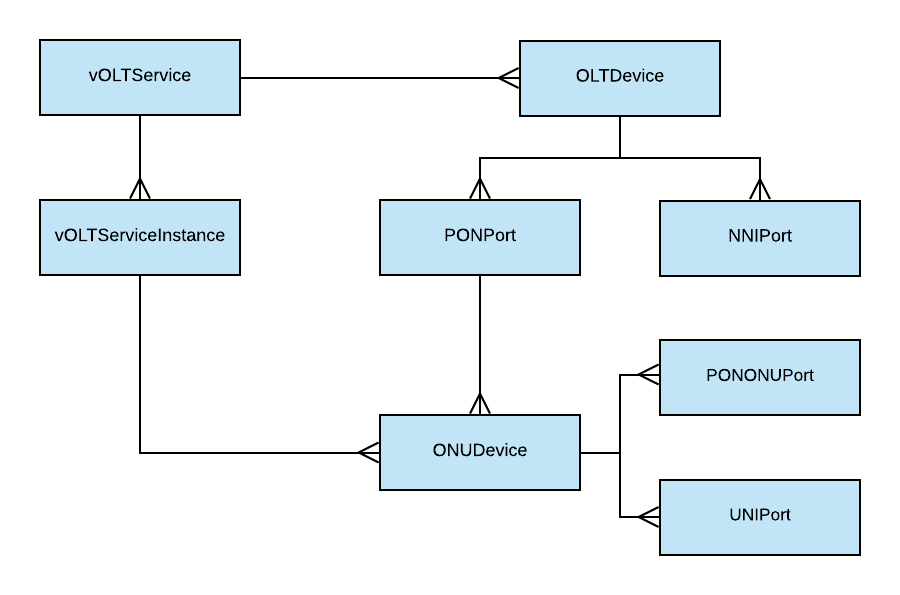
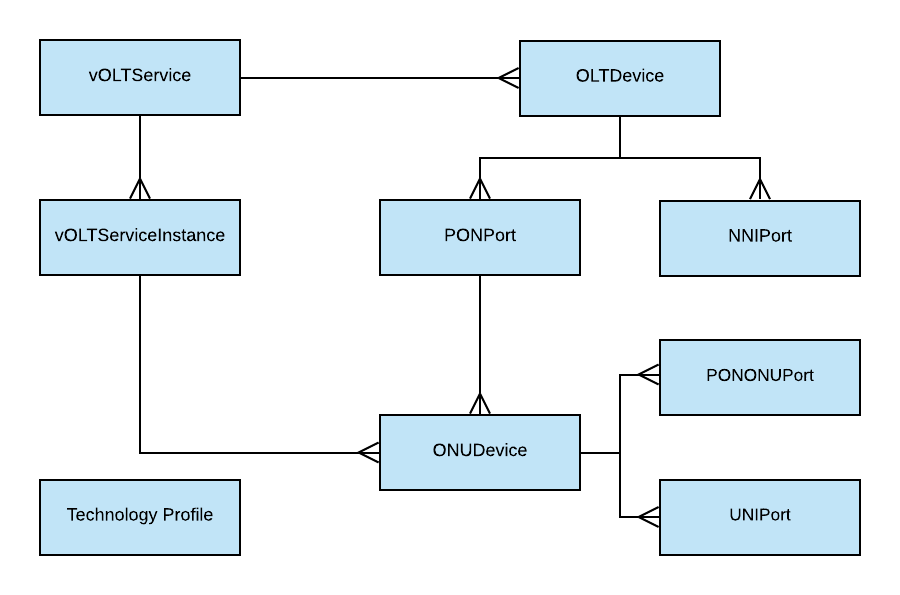
[SEBA-673] Adding documentation regarding the Technology profile

Changed region(s): [[0.0311, 0.7866, 0.28, 0.9378]]

diff --git a/docs/README.md b/docs/README.md
@@ -47,6 +47,7 @@ representation.
     - `oper_status`.
     - `connect_status`.
 - `NNIPort`, `PONPort`, `ANIPort`, `UNIPort`. These represent various ports attached to OLTs and ONUs.
+- `TechnologyProfile`. Contains PON related information, see [Technology Profile Management](https://github.com/opencord/voltha/tree/master/common/tech_profile) in the VOLTHA repo.
 
 ## Example Tosca
 
@@ -139,6 +140,167 @@ topology_template:
             relationship: tosca.relationships.BelongsToOne
 ```
 
+## Create a Technology Profile
+
+This example uses 4 Gem ports:
+
+```yaml
+tosca_definitions_version: tosca_simple_yaml_1_0
+imports:
+  - custom_types/technologyprofile.yaml
+description: Create a TechnologyProfile to configure the PON in VOLTHA
+topology_template:
+  node_templates:
+
+    technologyProfile:
+      type: tosca.nodes.TechnologyProfile
+      properties:
+        profile_id: 64
+        technology: xgspon
+        profile_value: >
+          {
+            "name": "4QueueHybridProfileMap1",
+            "profile_type": "XPON",
+            "version": 1,
+            "num_gem_ports": 4,
+            "instance_control": {
+              "onu": "multi-instance",
+              "uni": "single-instance",
+              "max_gem_payload_size": "auto"
+            },
+            "us_scheduler": {
+              "additional_bw": "auto",
+              "direction": "UPSTREAM",
+              "priority": 0,
+              "weight": 0,
+              "q_sched_policy": "hybrid"
+            },
+            "ds_scheduler": {
+              "additional_bw": "auto",
+              "direction": "DOWNSTREAM",
+              "priority": 0,
+              "weight": 0,
+              "q_sched_policy": "hybrid"
+            },
+            "upstream_gem_port_attribute_list": [
+              {
+                "pbit_map": "0b00000101",
+                "aes_encryption": "True",
+                "scheduling_policy": "WRR",
+                "priority_q": 4,
+                "weight": 25,
+                "discard_policy": "TailDrop",
+                "max_q_size": "auto",
+                "discard_config": {
+                  "max_threshold": 0,
+                  "min_threshold": 0,
+                  "max_probability": 0
+                }
+              },
+              {
+                "pbit_map": "0b00011010",
+                "aes_encryption": "True",
+                "scheduling_policy": "WRR",
+                "priority_q": 3,
+                "weight": 75,
+                "discard_policy": "TailDrop",
+                "max_q_size": "auto",
+                "discard_config": {
+                  "min_threshold": 0,
+                  "max_threshold": 0,
+                  "max_probability": 0
+                }
+              },
+              {
+                "pbit_map": "0b00100000",
+                "aes_encryption": "True",
+                "scheduling_policy": "StrictPriority",
+                "priority_q": 2,
+                "weight": 0,
+                "discard_policy": "TailDrop",
+                "max_q_size": "auto",
+                "discard_config": {
+                  "min_threshold": 0,
+                  "max_threshold": 0,
+                  "max_probability": 0
+                }
+              },
+              {
+                "pbit_map": "0b11000000",
+                "aes_encryption": "True",
+                "scheduling_policy": "StrictPriority",
+                "priority_q": 1,
+                "weight": 25,
+                "discard_policy": "TailDrop",
+                "max_q_size": "auto",
+                "discard_config": {
+                  "min_threshold": 0,
+                  "max_threshold": 0,
+                  "max_probability": 0
+                }
+              }
+            ],
+            "downstream_gem_port_attribute_list": [
+              {
+                "pbit_map": "0b00000101",
+                "aes_encryption": "True",
+                "scheduling_policy": "WRR",
+                "priority_q": 4,
+                "weight": 10,
+                "discard_policy": "TailDrop",
+                "max_q_size": "auto",
+                "discard_config": {
+                  "min_threshold": 0,
+                  "max_threshold": 0,
+                  "max_probability": 0
+                }
+              },
+              {
+                "pbit_map": "0b00011010",
+                "aes_encryption": "True",
+                "scheduling_policy": "WRR",
+                "priority_q": 3,
+                "weight": 90,
+                "discard_policy": "TailDrop",
+                "max_q_size": "auto",
+                "discard_config": {
+                  "min_threshold": 0,
+                  "max_threshold": 0,
+                  "max_probability": 0
+                }
+              },
+              {
+                "pbit_map": "0b00100000",
+                "aes_encryption": "True",
+                "scheduling_policy": "StrictPriority",
+                "priority_q": 2,
+                "weight": 0,
+                "discard_policy": "TailDrop",
+                "max_q_size": "auto",
+                "discard_config": {
+                  "min_threshold": 0,
+                  "max_threshold": 0,
+                  "max_probability": 0
+                }
+              },
+              {
+                "pbit_map": "0b11000000",
+                "aes_encryption": "True",
+                "scheduling_policy": "StrictPriority",
+                "priority_q": 1,
+                "weight": 25,
+                "discard_policy": "TailDrop",
+                "max_q_size": "auto",
+                "discard_config": {
+                  "min_threshold": 0,
+                  "max_threshold": 0,
+                  "max_probability": 0
+                }
+              }
+            ]
+          }
+```
+
 ## Integration with other Services
 
 The western neighbor of the vOLT Service is typically the R-CORD Service, which handles subscriber-related state. The vOLT Service may pull subscriber related information, such as VLAN tags, ONU serial numbers, etc., from that service.
@@ -152,7 +314,9 @@ The eastern neighbor of the vOLT Service is typically the Fabric Crossconnect Se
 There are two top-down steps in this service:
 
 - `SyncOLTDevice` to pre-provision and enable OLT devices. Also handles disabling and deleting the OLT from `VOLTHA` when the model is deleted in XOS.
+- `SyncONUDevice` to admin enable/disable an ONU Device (or to configure one if they're not discovered by the OLT software)
 - `SyncVOLTServiceInstance` to add the subscriber in `ONOS-VOLTHA`
+- `SyncTechnologyProfile` to push the Technology Profile into ETCD
 
 ### Pull steps
 
